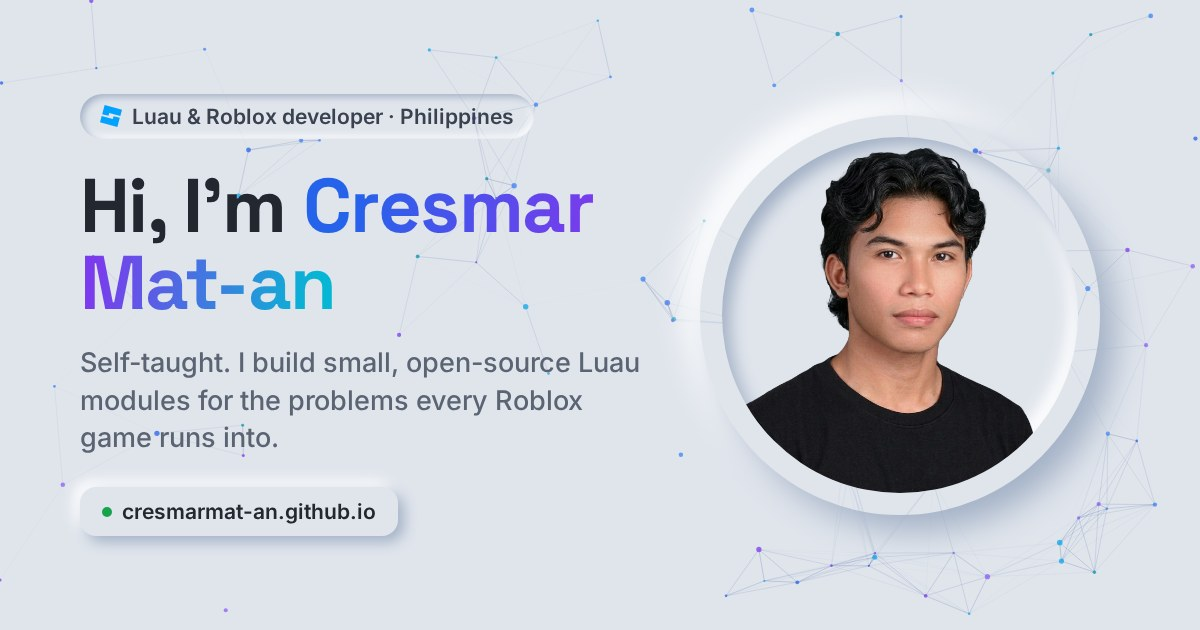
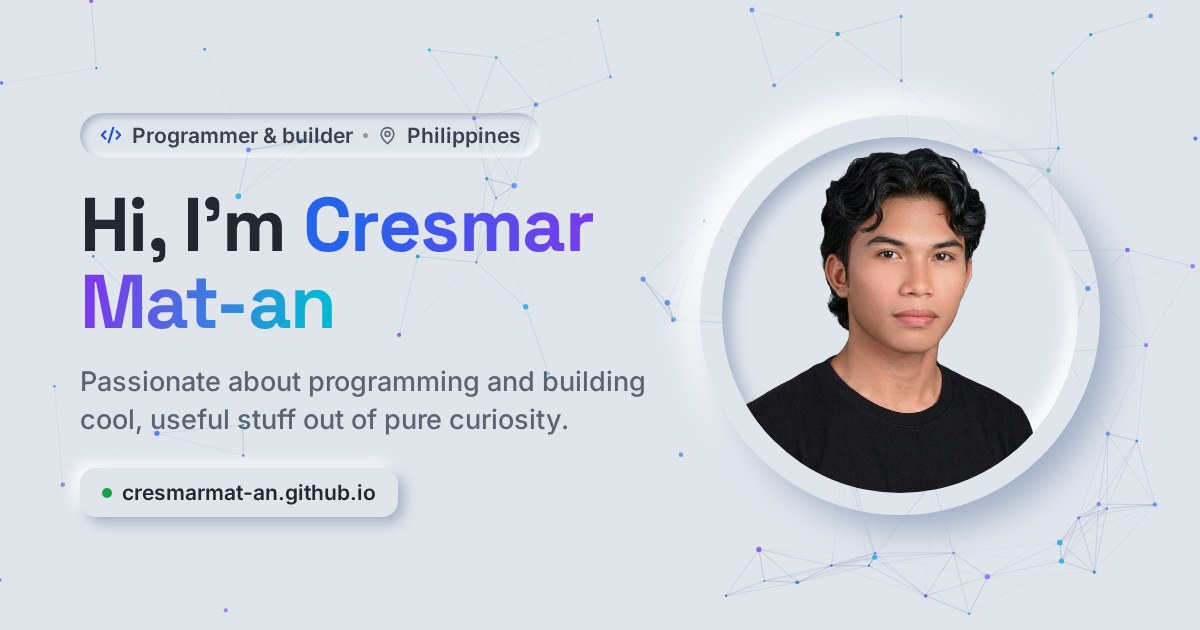
Broaden profile beyond Roblox and add Facebook
- New title, description, social preview text and bio: a programmer and
  builder, not only a Roblox developer
- Hero tag reads "Programmer & builder" with a code icon instead of the
  Roblox Studio logo
- Projects intro no longer says the list is mostly Luau modules
- Social preview image regenerated with the new wording
- Facebook added to the hero icons, the footer and the profile links

Changed region(s): [[0.0617, 0.2714, 0.555, 0.7238], [0.0617, 0.1508, 0.4625, 0.2413], [0.0617, 0.754, 0.3392, 0.8746]]

diff --git a/index.html b/index.html
@@ -3,8 +3,8 @@
 <head>
   <meta charset="UTF-8" />
   <meta name="viewport" content="width=device-width, initial-scale=1.0, viewport-fit=cover" />
-  <title>Cresmar Mat-an · Luau &amp; Roblox developer</title>
-  <meta name="description" content="Cresmar Mat-an is a self-taught Luau and Roblox developer from the Philippines, publishing small open-source modules. Projects sync live from GitHub." />
+  <title>Cresmar Mat-an</title>
+  <meta name="description" content="Cresmar Mat-an is a builder from the Philippines, publishing small open-source stuff. Projects sync live from GitHub." />
   <meta name="author" content="Cresmar Mat-an" />
   <link rel="canonical" href="https://cresmarmat-an.github.io/" />
   <meta name="theme-color" content="#E0E5EC" media="(prefers-color-scheme: light)" />
@@ -12,8 +12,8 @@
   <meta name="color-scheme" content="light dark" />
   <meta property="og:type" content="website" />
   <meta property="og:url" content="https://cresmarmat-an.github.io/" />
-  <meta property="og:title" content="Cresmar Mat-an · Luau &amp; Roblox developer" />
-  <meta property="og:description" content="Self-taught developer building small, open-source Luau modules for Roblox." />
+  <meta property="og:title" content="Cresmar Mat-an" />
+  <meta property="og:description" content="Passionate about programming and building cool, useful stuff out of pure curiosity." />
   <meta property="og:image" content="https://cresmarmat-an.github.io/assets/img/og.jpg" />
   <meta property="og:image:width" content="1200" />
   <meta property="og:image:height" content="630" />
@@ -39,10 +39,10 @@
       "name": "Cresmar Mat-an",
       "url": "https://cresmarmat-an.github.io/",
       "image": "https://cresmarmat-an.github.io/assets/img/profile.png",
-      "jobTitle": "Roblox developer",
-      "knowsAbout": ["Luau", "Roblox", "Open source"],
+      "jobTitle": "Builder",
+      "knowsAbout": ["Luau", "Roblox", "C++", "Rust", "Web Development"],
       "address": { "@type": "PostalAddress", "addressCountry": "PH" },
-      "sameAs": ["https://github.com/cresmarmat-an", "https://x.com/CresmarMain"]
+      "sameAs": ["https://github.com/cresmarmat-an", "https://x.com/CresmarMain", "https://www.facebook.com/cresmar.mat.an.2024/"]
     }
   </script>
 </head>
@@ -76,12 +76,12 @@
     <section class="hero container" id="home" aria-labelledby="home-title">
       <div class="hero-text">
         <p class="eyebrow reveal">
-          <span class="eyebrow-item"><img src="assets/img/icons/roblox-studio.svg" alt="" width="16" height="16" />Luau &amp; Roblox developer</span>
+          <span class="eyebrow-item"><svg class="eyebrow-code" width="16" height="16" viewBox="0 0 24 24" fill="none" stroke="currentColor" stroke-width="2.2" stroke-linecap="round" stroke-linejoin="round" aria-hidden="true"><path d="m18 16 4-4-4-4"/><path d="m6 8-4 4 4 4"/><path d="m14.5 4-5 16"/></svg>Programmer &amp; builder</span>
           <span class="eyebrow-sep" aria-hidden="true"></span>
           <span class="eyebrow-item"><svg width="15" height="15" viewBox="0 0 24 24" fill="none" stroke="currentColor" stroke-width="2" stroke-linecap="round" stroke-linejoin="round" aria-hidden="true"><path d="M20 10c0 4.993-5.539 10.193-7.399 11.799a1 1 0 0 1-1.202 0C9.539 20.193 4 14.993 4 10a8 8 0 0 1 16 0"/><circle cx="12" cy="10" r="3"/></svg>Philippines</span>
         </p>
         <h1 class="reveal" id="home-title">Hi, I'm <span class="accent">Cresmar <span class="nowrap">Mat-an</span></span></h1>
-        <p class="bio reveal">A self-taught developer writing Luau for Roblox. When a problem keeps coming back, I build the smallest thing that fixes it, use it until it holds up, then open-source it for anyone hitting the same wall.</p>
+        <p class="bio reveal">Passionate about programming and building cool, useful stuff out of pure curiosity. I’m a builder at heart who loves the thrill of starting with a blank file and turning it into something functional. Always learning, constantly experimenting, and driven by a genuine love for making things that work.</p>
         <div class="cta-row reveal">
           <a class="btn btn-primary" href="#projects">
             View projects
@@ -96,6 +96,7 @@
           <ul class="socials" aria-label="Elsewhere">
             <li><a class="icon-btn" href="https://github.com/cresmarmat-an" target="_blank" rel="noopener" aria-label="GitHub"><svg width="18" height="18" viewBox="0 0 24 24" fill="currentColor" aria-hidden="true"><path d="M12 .297c-6.63 0-12 5.373-12 12 0 5.303 3.438 9.8 8.205 11.385.6.113.82-.258.82-.577 0-.285-.01-1.04-.015-2.04-3.338.724-4.042-1.61-4.042-1.61C4.422 18.07 3.633 17.7 3.633 17.7c-1.087-.744.084-.729.084-.729 1.205.084 1.838 1.236 1.838 1.236 1.07 1.835 2.809 1.305 3.495.998.108-.776.417-1.305.76-1.605-2.665-.3-5.466-1.332-5.466-5.93 0-1.31.465-2.38 1.235-3.22-.135-.303-.54-1.523.105-3.176 0 0 1.005-.322 3.3 1.23.96-.267 1.98-.399 3-.405 1.02.006 2.04.138 3 .405 2.28-1.552 3.285-1.23 3.285-1.23.645 1.653.24 2.873.12 3.176.765.84 1.23 1.91 1.23 3.22 0 4.61-2.805 5.625-5.475 5.92.42.36.81 1.096.81 2.22 0 1.606-.015 2.896-.015 3.286 0 .315.21.69.825.57C20.565 22.092 24 17.592 24 12.297c0-6.627-5.373-12-12-12"/></svg></a></li>
             <li><a class="icon-btn" href="https://x.com/CresmarMain" target="_blank" rel="noopener" aria-label="X (Twitter)"><svg width="16" height="16" viewBox="0 0 24 24" fill="currentColor" aria-hidden="true"><path d="M14.234 10.162 22.977 0h-2.072l-7.591 8.824L7.251 0H.258l9.168 13.343L.258 24H2.33l8.016-9.318L16.749 24h6.993zm-2.837 3.299-.929-1.329L3.076 1.56h3.182l5.965 8.532.929 1.329 7.754 11.09h-3.182z"/></svg></a></li>
+            <li><a class="icon-btn" href="https://www.facebook.com/cresmar.mat.an.2024/" target="_blank" rel="noopener" aria-label="Facebook"><svg width="18" height="18" viewBox="0 0 24 24" fill="currentColor" aria-hidden="true"><path d="M9.101 23.691v-7.98H6.627v-3.667h2.474v-1.58c0-4.085 1.848-5.978 5.858-5.978.401 0 .955.042 1.468.103a8.68 8.68 0 0 1 1.141.195v3.325a8.623 8.623 0 0 0-.653-.036 26.805 26.805 0 0 0-.733-.009c-.707 0-1.259.096-1.675.309a1.686 1.686 0 0 0-.679.622c-.258.42-.374.995-.374 1.752v1.297h3.919l-.386 2.103-.287 1.564h-3.246v8.245C19.396 23.238 24 18.179 24 12.044c0-6.627-5.373-12-12-12s-12 5.373-12 12c0 5.628 3.874 10.35 9.101 11.647Z"/></svg></a></li>
           </ul>
           <a class="latest" id="latest" href="https://github.com/cresmarmat-an?tab=repositories" target="_blank" rel="noopener" hidden>
             <span class="live-dot" aria-hidden="true"></span>
@@ -133,7 +134,7 @@
         <div class="section-copy reveal">
           <p class="section-tag">Projects</p>
           <h2 id="projects-title">What I've built</h2>
-          <p class="section-sub">Open-source tools, mostly Luau modules for Roblox. This list is pulled live from my GitHub, so anything new I publish shows up here on its own.</p>
+          <p class="section-sub">This list is pulled live from my GitHub, so anything new I publish shows up here on its own.</p>
         </div>
         <p class="sync reveal" id="sync" role="status">
           <span class="sync-dot" aria-hidden="true"></span>
@@ -188,6 +189,7 @@
       <ul class="footer-links" aria-label="Contact and profiles">
         <li><a class="icon-btn icon-sm" href="https://github.com/cresmarmat-an" target="_blank" rel="noopener" aria-label="GitHub"><svg width="17" height="17" viewBox="0 0 24 24" fill="currentColor" aria-hidden="true"><path d="M12 .297c-6.63 0-12 5.373-12 12 0 5.303 3.438 9.8 8.205 11.385.6.113.82-.258.82-.577 0-.285-.01-1.04-.015-2.04-3.338.724-4.042-1.61-4.042-1.61C4.422 18.07 3.633 17.7 3.633 17.7c-1.087-.744.084-.729.084-.729 1.205.084 1.838 1.236 1.838 1.236 1.07 1.835 2.809 1.305 3.495.998.108-.776.417-1.305.76-1.605-2.665-.3-5.466-1.332-5.466-5.93 0-1.31.465-2.38 1.235-3.22-.135-.303-.54-1.523.105-3.176 0 0 1.005-.322 3.3 1.23.96-.267 1.98-.399 3-.405 1.02.006 2.04.138 3 .405 2.28-1.552 3.285-1.23 3.285-1.23.645 1.653.24 2.873.12 3.176.765.84 1.23 1.91 1.23 3.22 0 4.61-2.805 5.625-5.475 5.92.42.36.81 1.096.81 2.22 0 1.606-.015 2.896-.015 3.286 0 .315.21.69.825.57C20.565 22.092 24 17.592 24 12.297c0-6.627-5.373-12-12-12"/></svg></a></li>
         <li><a class="icon-btn icon-sm" href="https://x.com/CresmarMain" target="_blank" rel="noopener" aria-label="X (Twitter)"><svg width="15" height="15" viewBox="0 0 24 24" fill="currentColor" aria-hidden="true"><path d="M14.234 10.162 22.977 0h-2.072l-7.591 8.824L7.251 0H.258l9.168 13.343L.258 24H2.33l8.016-9.318L16.749 24h6.993zm-2.837 3.299-.929-1.329L3.076 1.56h3.182l5.965 8.532.929 1.329 7.754 11.09h-3.182z"/></svg></a></li>
+        <li><a class="icon-btn icon-sm" href="https://www.facebook.com/cresmar.mat.an.2024/" target="_blank" rel="noopener" aria-label="Facebook"><svg width="17" height="17" viewBox="0 0 24 24" fill="currentColor" aria-hidden="true"><path d="M9.101 23.691v-7.98H6.627v-3.667h2.474v-1.58c0-4.085 1.848-5.978 5.858-5.978.401 0 .955.042 1.468.103a8.68 8.68 0 0 1 1.141.195v3.325a8.623 8.623 0 0 0-.653-.036 26.805 26.805 0 0 0-.733-.009c-.707 0-1.259.096-1.675.309a1.686 1.686 0 0 0-.679.622c-.258.42-.374.995-.374 1.752v1.297h3.919l-.386 2.103-.287 1.564h-3.246v8.245C19.396 23.238 24 18.179 24 12.044c0-6.627-5.373-12-12-12s-12 5.373-12 12c0 5.628 3.874 10.35 9.101 11.647Z"/></svg></a></li>
         <li><a class="icon-btn icon-sm" href="mailto:main.cresmar@gmail.com" aria-label="Email"><svg width="17" height="17" viewBox="0 0 24 24" fill="none" stroke="currentColor" stroke-width="2" stroke-linecap="round" stroke-linejoin="round" aria-hidden="true"><path d="m22 7-8.991 5.727a2 2 0 0 1-2.009 0L2 7"/><rect x="2" y="4" width="20" height="16" rx="2"/></svg></a></li>
       </ul>
       <a class="icon-btn icon-sm to-top" href="#home" aria-label="Back to top"><svg width="17" height="17" viewBox="0 0 24 24" fill="none" stroke="currentColor" stroke-width="2" stroke-linecap="round" stroke-linejoin="round" aria-hidden="true"><path d="m5 12 7-7 7 7"/><path d="M12 19V5"/></svg></a>

diff --git a/css/styles.css b/css/styles.css
@@ -138,6 +138,7 @@ button,input{font:inherit;color:inherit}
 .eyebrow-item{display:inline-flex;align-items:center;gap:7px;white-space:nowrap}
 .eyebrow img,.eyebrow svg{flex-shrink:0}
 .eyebrow svg{color:var(--muted)}
+.eyebrow .eyebrow-code{color:var(--accent-ink)}
 .eyebrow-sep{width:4px;height:4px;border-radius:50%;background:var(--muted);opacity:.6}
 .hero h1{margin-bottom:18px}
 .bio{font-size:clamp(1.02rem,.96rem + .3vw,1.16rem);line-height:1.65;color:var(--text-2);max-width:54ch;margin:0}
